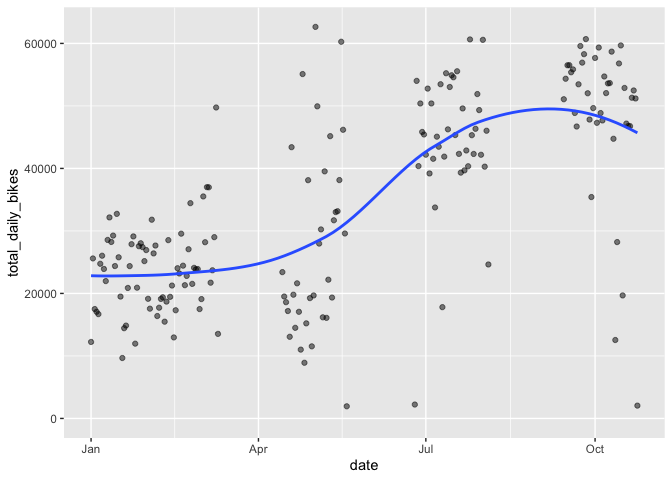
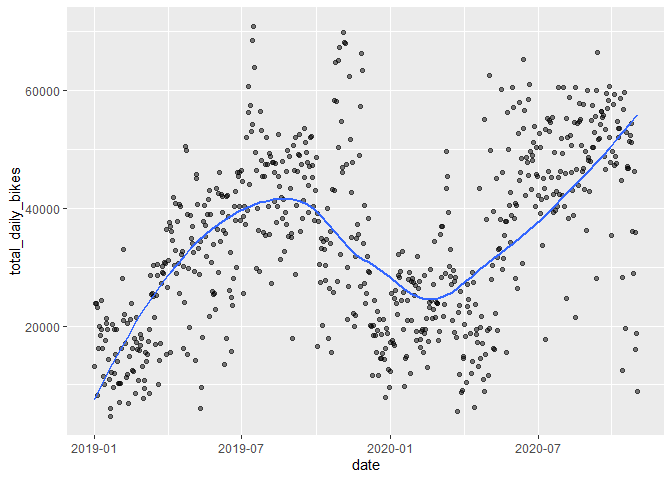
Fixed crash API

diff --git a/20201113_import_tidy.md b/20201113_import_tidy.md
@@ -16,43 +16,86 @@ crash_dat =
     values_to = "vehicle_options"
    ) %>%
   drop_na(vehicle_options)
+```
 
-
+``` r
 #Exploring the vehicle types so that we can limit to bicycles -- double check this list
 bikes = crash_dat %>%
-  distinct(vehicle_options) %>%
   filter(str_detect(vehicle_options, "[Bb]ike") | 
            str_detect(vehicle_options, "REVEL") | 
            str_detect(vehicle_options, "SCO")  |
            str_detect(vehicle_options, "MOP")   |
            str_detect(vehicle_options, "ELEC")  |
            str_detect(vehicle_options, "^E-")) %>% 
-  filter(vehicle_options != "ESCOVATOR" & 
+  filter(vehicle_options != "ESCOVATOR" & vehicle_options != "Bike" &
       str_detect(vehicle_options, "Dirt", negate = TRUE),
       str_detect(vehicle_options, "[Mm]otorbike", negate = TRUE)
            ) 
            
- 
-crash_dat %>% 
-  group_by(vehicle_options) %>% 
-  count() 
+#Run to check what the filter ^ resulted in
+# bikes %>%
+#   group_by(vehicle_options) %>%
+#   count() %>% View()
 ```
 
-    ## # A tibble: 802 x 2
-    ## # Groups:   vehicle_options [802]
-    ##    vehicle_options     n
-    ##    <chr>           <int>
-    ##  1 0                   1
-    ##  2 16M                 1
-    ##  3 18 WEELER           1
-    ##  4 18 WHEELER          1
-    ##  5 1C                  1
-    ##  6 2 dr sedan         21
-    ##  7 3-Door             77
-    ##  8 38AB-               1
-    ##  9 4 dr sedan        293
-    ## 10 4dsd                2
-    ## # … with 792 more rows
+Microvehicle incidents in NYC \_ a leaflet map
+
+``` r
+fit_injuries_month = crash_dat %>%
+  group_by(year) %>%
+  mutate(year_2020 = year - 2019) %>%
+  nest(data = -month) %>%
+  mutate(models = map(data, ~glm(number_of_persons_injured ~ year_2020 + borough,
+                                 family = "poisson", data = .x)),
+         models = map(models, broom::tidy)) %>% 
+  select(-data) %>% 
+  unnest(models) %>%
+  select(month, term, estimate, std.error, p.value) %>% 
+  mutate(term = str_replace(term, "^borough", "Borough: "),
+         term = str_replace(term, "year_2020", "2020 v. 2019"),
+         month = month.abb[month]) 
+
+fit_injuries_month
+```
+
+    ## # A tibble: 72 x 5
+    ##    month term                   estimate std.error  p.value
+    ##    <chr> <chr>                     <dbl>     <dbl>    <dbl>
+    ##  1 Jan   (Intercept)             -1.34      0.0263 0.      
+    ##  2 Jan   2020 v. 2019             0.139     0.0203 7.94e-12
+    ##  3 Jan   Borough: BROOKLYN        0.0226    0.0296 4.45e- 1
+    ##  4 Jan   Borough: MANHATTAN      -0.495     0.0382 1.80e-38
+    ##  5 Jan   Borough: QUEENS         -0.0364    0.0302 2.28e- 1
+    ##  6 Jan   Borough: STATEN ISLAND   0.357     0.0517 4.90e-12
+    ##  7 Feb   (Intercept)             -1.36      0.0275 0.      
+    ##  8 Feb   2020 v. 2019             0.163     0.0211 1.22e-14
+    ##  9 Feb   Borough: BROOKLYN       -0.0303    0.0309 3.27e- 1
+    ## 10 Feb   Borough: MANHATTAN      -0.453     0.0386 7.87e-32
+    ## # ... with 62 more rows
+
+It seems like what this is looking at is the number of persons injured
+per crash, and seeing if there is a significant difference between years
+(for each month.) Right? So we’re hypothesizing that each crash would be
+more dangerous in 2020, (rather than that there are more crashes?) But
+sure enough, seems like 2020 is more dangerous overall, interesting\! -
+Emma
+
+``` r
+fit_injuries_month %>% 
+  filter(term == "2020 v. 2019") %>%
+  ggplot(aes(x = month, y = exp(estimate))) + geom_point() +
+  geom_errorbar(aes(ymin = exp(estimate - (1.96*std.error)), 
+                    ymax = exp(estimate + (1.96*std.error)))) +
+  labs(
+    title = "Rate of Injuries Per Month in 2020 v. 2019",
+    x = "Month",
+    y = "2020 v. 2019 Difference"
+  ) 
+```
+
+    ## Warning: Removed 2 rows containing missing values (geom_point).
+
+![](20201113_import_tidy_files/figure-gfm/plot%20injuries%20by%20month-1.png)<!-- -->
 
 ``` r
 #for the line plot, we will want a summary of the number of bike crashes by day. The collisions variable calculates the number of unique crashes and the bikes variable calculates the total number of bikes that crashed (there can be mutliple bikes involved in one crash but this is rare)
@@ -87,22 +130,156 @@ crash_date_summ %>%
 
     ## `geom_smooth()` using method = 'loess' and formula 'y ~ x'
 
-![](20201113_import_tidy_files/figure-gfm/tidy%20MV%20crash-1.png)<!-- -->
+![](20201113_import_tidy_files/figure-gfm/line%20plot%20of%20crashes%20over%20time-1.png)<!-- -->
 
 ``` r
-#Importing bike data using the NYC Open Data API. The API response is limited to 50,000 rows, so we need a function that can be used to page through these results to capture all bike counts in 2020. 
+#Importing bike data using the NYC Open Data API. The API response is limited to 50,000 rows, so we need a function that can be used to page through these results to capture all bike counts in 2019 and 2020. 
 
-bike_api = function(offset) {
+# 
+# bike_api = function(offset, limit = 50000) {
+#   GET("https://data.cityofnewyork.us/resource/uczf-rk3c.csv", 
+#       query = list("$where" = "date between '2019-01-01T00:00:00' and '2020-10-31T12:00:00'", "$limit" = limit, "$offset" = offset)) %>% 
+#   content("parsed") %>%
+#   as_tibble() 
+# }
+# 
+# 
+# offsets = c(25000, 75000, 125000, 175000, 225000, 275000, 325000, 375000, 425000, 475000, 525000, 575000, 625000, 675000, 725000, 775000, 825000, 875000, 925000, 975000)
+# bike_dat = bind_rows(bike_api(offset = 0, limit = 25000),
+#                     map_df(offsets, bike_api))
+
+## Note: We' were're having a really weird issue with importing the data. It seems that the import works 
+## when the offset is 0, 50000, 150000, 250000, 350000, etc. BUT, won't work when it's 100000, 200000 or any other multiple of 100000. 
+## It's very strange, and was causing us to have big missing chunks of data. It will even work with 100001, and with 99999, but not 100000.
+## I think this partially fixed it, but now it's not importing dates past May. Maybe someone else has an idea?
+
+
+#I think the code below works
+bike_api = function(offset, limit = 50000) {
   GET("https://data.cityofnewyork.us/resource/uczf-rk3c.csv", 
-      query = list("$where" = "date between '2020-01-01T00:00:00' and '2020-10-31T12:00:00'", "$limit" = 50000, "$offset" = offset)) %>% 
+      query = list("$where" = "date between '2019-01-01T00:00:00' and '2020-10-31T12:00:00'", "$limit" = limit, "$offset" = offset)) %>% 
   content("parsed") %>%
   as_tibble() 
 }
 
-offsets = c(0, 50000, 100000, 150000, 200000, 250000, 300000, 350000, 400000)
-bike_dat_2020 = map_df(offsets, bike_api)
+
+offsets = seq(25000, 875000, by = 50000)
+bike_dat = bind_rows(bike_api(offset = 0, limit = 25000),
+                    map_df(offsets, bike_api)) 
 ```
 
+    ## Parsed with column specification:
+    ## cols(
+    ##   id1 = col_double(),
+    ##   counts = col_double(),
+    ##   date = col_datetime(format = ""),
+    ##   status = col_double(),
+    ##   site = col_double()
+    ## )
+    ## Parsed with column specification:
+    ## cols(
+    ##   id1 = col_double(),
+    ##   counts = col_double(),
+    ##   date = col_datetime(format = ""),
+    ##   status = col_double(),
+    ##   site = col_double()
+    ## )
+    ## Parsed with column specification:
+    ## cols(
+    ##   id1 = col_double(),
+    ##   counts = col_double(),
+    ##   date = col_datetime(format = ""),
+    ##   status = col_double(),
+    ##   site = col_double()
+    ## )
+    ## Parsed with column specification:
+    ## cols(
+    ##   id1 = col_double(),
+    ##   counts = col_double(),
+    ##   date = col_datetime(format = ""),
+    ##   status = col_double(),
+    ##   site = col_double()
+    ## )
+    ## Parsed with column specification:
+    ## cols(
+    ##   id1 = col_double(),
+    ##   counts = col_double(),
+    ##   date = col_datetime(format = ""),
+    ##   status = col_double(),
+    ##   site = col_double()
+    ## )
+    ## Parsed with column specification:
+    ## cols(
+    ##   id1 = col_double(),
+    ##   counts = col_double(),
+    ##   date = col_datetime(format = ""),
+    ##   status = col_double(),
+    ##   site = col_double()
+    ## )
+    ## Parsed with column specification:
+    ## cols(
+    ##   id1 = col_double(),
+    ##   counts = col_double(),
+    ##   date = col_datetime(format = ""),
+    ##   status = col_double(),
+    ##   site = col_double()
+    ## )
+    ## Parsed with column specification:
+    ## cols(
+    ##   id1 = col_double(),
+    ##   counts = col_double(),
+    ##   date = col_datetime(format = ""),
+    ##   status = col_double(),
+    ##   site = col_double()
+    ## )
+    ## Parsed with column specification:
+    ## cols(
+    ##   id1 = col_double(),
+    ##   counts = col_double(),
+    ##   date = col_datetime(format = ""),
+    ##   status = col_double(),
+    ##   site = col_double()
+    ## )
+    ## Parsed with column specification:
+    ## cols(
+    ##   id1 = col_double(),
+    ##   counts = col_double(),
+    ##   date = col_datetime(format = ""),
+    ##   status = col_double(),
+    ##   site = col_double()
+    ## )
+    ## Parsed with column specification:
+    ## cols(
+    ##   id1 = col_double(),
+    ##   counts = col_double(),
+    ##   date = col_datetime(format = ""),
+    ##   status = col_double(),
+    ##   site = col_double()
+    ## )
+    ## Parsed with column specification:
+    ## cols(
+    ##   id1 = col_double(),
+    ##   counts = col_double(),
+    ##   date = col_datetime(format = ""),
+    ##   status = col_double(),
+    ##   site = col_double()
+    ## )
+    ## Parsed with column specification:
+    ## cols(
+    ##   id1 = col_double(),
+    ##   counts = col_double(),
+    ##   date = col_datetime(format = ""),
+    ##   status = col_double(),
+    ##   site = col_double()
+    ## )
+    ## Parsed with column specification:
+    ## cols(
+    ##   id1 = col_double(),
+    ##   counts = col_double(),
+    ##   date = col_datetime(format = ""),
+    ##   status = col_double(),
+    ##   site = col_double()
+    ## )
     ## Parsed with column specification:
     ## cols(
     ##   id1 = col_double(),
@@ -147,7 +324,7 @@ bike_dat_2020 = map_df(offsets, bike_api)
 ``` r
 # Make df with aggregate bike counts by day. I noticed that there are some days with NAs - haven't explored yet but might want to look into if the bike counting operation itself was limited at all by covid.
 bike_counts_aggregate = 
-  bike_dat_2020 %>% 
+  bike_dat %>% 
   mutate(
     date_time = date,
     date = lubridate::date(date_time)
@@ -168,8 +345,44 @@ bike_counts_aggregate %>%
 
     ## `geom_smooth()` using method = 'loess' and formula 'y ~ x'
 
-    ## Warning: Removed 1 rows containing non-finite values (stat_smooth).
-
-    ## Warning: Removed 1 rows containing missing values (geom_point).
-
 ![](20201113_import_tidy_files/figure-gfm/tidy%20bikes-1.png)<!-- -->
+
+``` r
+## Ok, even with the partial fix above, there seem to be bands of missing dates. I think there's something wrong with the import still.
+```
+
+Contributing Factor
+
+``` r
+crash_factor = 
+  bikes %>%
+  pivot_longer(
+    contributing_factor_vehicle_1:contributing_factor_vehicle_5,
+    names_to = "vehicle_factor_num",
+    names_prefix = "contributing_factor_vehicle_",
+    values_to = "contributing_factor"
+   ) %>%
+  drop_na(contributing_factor) %>%
+  filter(contributing_factor != "Unspecified") %>%
+  group_by(contributing_factor) %>%
+  summarise(
+    collisions = n_distinct(collision_id)
+  ) %>%
+  mutate(
+    contributing_factor = fct_reorder(as.factor(contributing_factor), collisions, .desc = TRUE)
+  ) 
+```
+
+    ## `summarise()` ungrouping output (override with `.groups` argument)
+
+``` r
+crash_factor %>%
+  filter(
+    collisions > 50
+  ) %>%
+  ggplot(aes(x = contributing_factor, y = collisions)) +
+  geom_bar(stat = "identity") +
+  theme(axis.text.x = element_text(angle = 90, vjust = 0.5, hjust = 1))
+```
+
+![](20201113_import_tidy_files/figure-gfm/unnamed-chunk-2-1.png)<!-- -->
